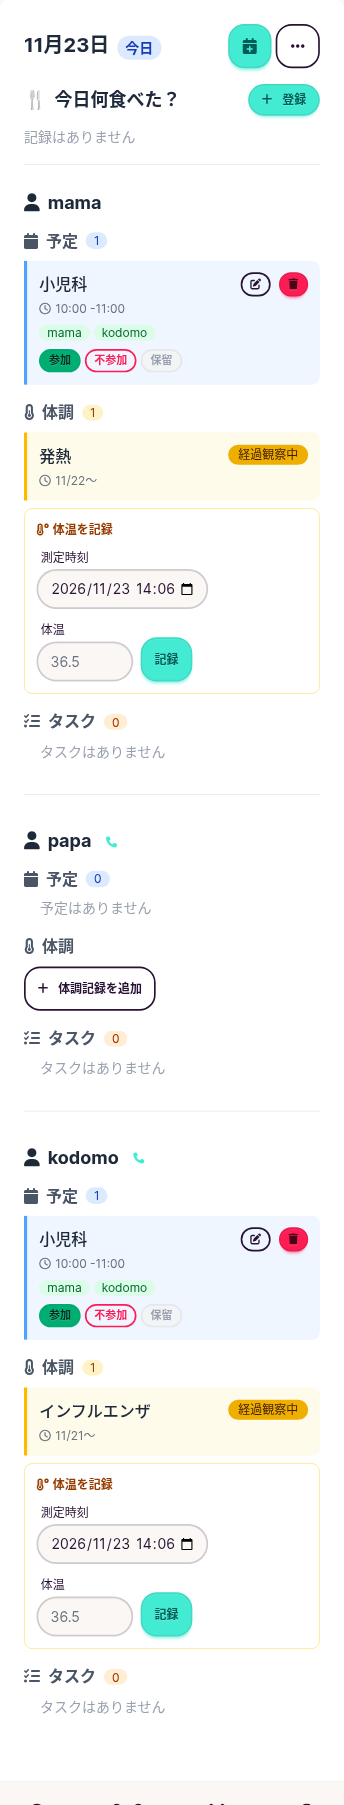
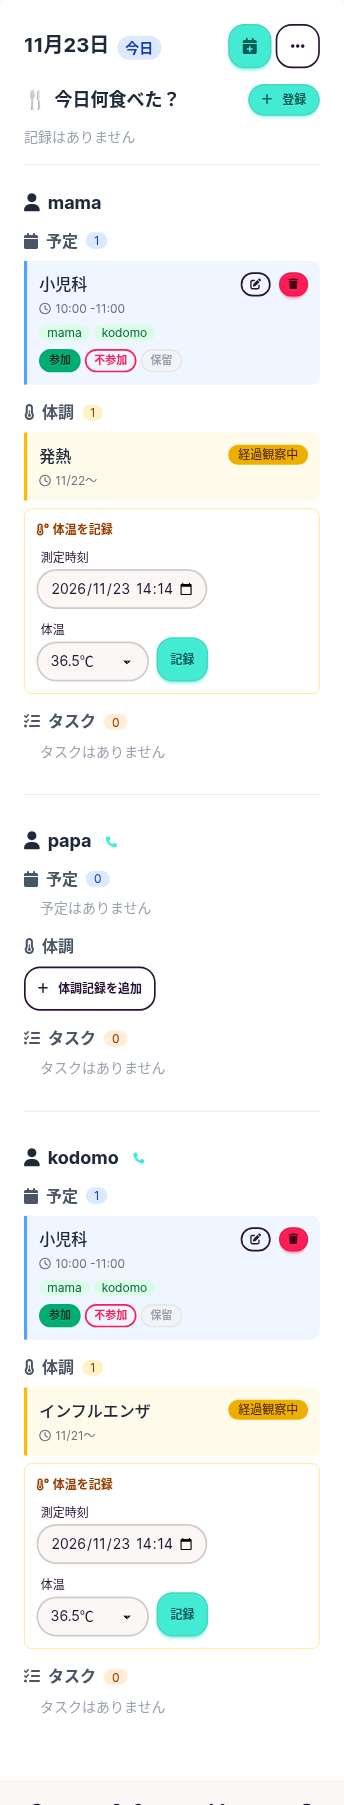
fix: 体温入力を35.0〜41.9℃のピッカーに変更

diff --git a/spec/requests/health_episodes/temperatures_spec.rb b/spec/requests/health_episodes/temperatures_spec.rb
@@ -67,6 +67,33 @@ RSpec.describe 'HealthEpisodeTemperatures', type: :request do
     end
   end
 
+  describe 'temperature pickers' do
+    it 'offers select options for new and existing temperatures' do
+      temperature = create(:health_episode_temperature, health_episode: episode, value: 37.6)
+
+      get health_episode_path(episode)
+
+      page = response.parsed_body
+      new_select = page.at_css('#new_health_episode_temperature select[name="health_episode_temperature[value]"]')
+      edit_select = page.at_css(edit_value_select_selector(episode, temperature))
+
+      expect(new_select.at_css('option[selected]').text).to eq('36.5℃')
+      expect(edit_select.at_css('option[selected]').text).to eq('37.6℃')
+      expect(edit_select.css('option').size).to eq(70)
+    end
+
+    it 'keeps an existing value outside the picker range selectable' do
+      temperature = create(:health_episode_temperature, health_episode: episode, value: 42.3)
+
+      get health_episode_path(episode)
+
+      edit_select = response.parsed_body.at_css(edit_value_select_selector(episode, temperature))
+
+      expect(edit_select.css('option').size).to eq(71)
+      expect(edit_select.at_css('option[selected]').text).to eq('42.3℃')
+    end
+  end
+
   it 'rejects authenticated access for a temperature of another family' do
     other = create(:health_episode)
     temperature = create(:health_episode_temperature, health_episode: other)
@@ -74,5 +101,10 @@ RSpec.describe 'HealthEpisodeTemperatures', type: :request do
     expect do
       delete health_episode_temperature_path(other, temperature)
     end.to raise_error(ActiveRecord::RecordNotFound)
+  end
+
+  def edit_value_select_selector(episode, temperature)
+    "form[action='/health_episodes/#{episode.id}/temperatures/#{temperature.id}'] " \
+      'select[name="health_episode_temperature[value]"]'
   end
 end

diff --git a/app/helpers/health_episodes_helper.rb b/app/helpers/health_episodes_helper.rb
@@ -1,6 +1,21 @@
 module HealthEpisodesHelper
+  TEMPERATURE_SELECT_TENTHS = (350..419)
+  DEFAULT_TEMPERATURE_TENTHS = 365
+
   def temperature_value(value)
     format('%<value>.1f', value: value)
+  end
+
+  def temperature_choices(selected = nil)
+    tenths = TEMPERATURE_SELECT_TENTHS.to_a
+    current = temperature_tenths(selected)
+    tenths = (tenths << current).sort if current && tenths.exclude?(current)
+
+    tenths.map { |value| ["#{temperature_from_tenths(value)}℃", temperature_from_tenths(value)] }
+  end
+
+  def temperature_input_value(value)
+    temperature_from_tenths(temperature_tenths(value) || DEFAULT_TEMPERATURE_TENTHS)
   end
 
   def reminder_time_options
@@ -14,5 +29,17 @@ module HealthEpisodesHelper
     return now if date == Time.zone.today
 
     Time.zone.parse("#{date} #{now.strftime('%H:%M')}")
+  end
+
+  private
+
+  def temperature_tenths(value)
+    return if value.blank?
+
+    (value.to_d * 10).round.to_i
+  end
+
+  def temperature_from_tenths(tenths)
+    "#{tenths / 10}.#{tenths % 10}"
   end
 end

diff --git a/spec/helpers/health/health_episodes_helper_spec.rb b/spec/helpers/health/health_episodes_helper_spec.rb
@@ -1,0 +1,34 @@
+require 'rails_helper'
+
+RSpec.describe HealthEpisodesHelper, type: :helper do
+  describe '#temperature_choices' do
+    it 'covers 35.0 to 41.9 in 0.1 steps with a unit label' do
+      choices = helper.temperature_choices
+
+      expect(choices.size).to eq(70)
+      expect(choices.first).to eq(['35.0℃', '35.0'])
+      expect(choices.last).to eq(['41.9℃', '41.9'])
+    end
+
+    it 'contains the stored value' do
+      expect(helper.temperature_choices(37.6)).to include(['37.6℃', '37.6'])
+    end
+
+    it 'keeps a value outside the range selectable' do
+      choices = helper.temperature_choices(42.3)
+
+      expect(choices.size).to eq(71)
+      expect(choices.last).to eq(['42.3℃', '42.3'])
+    end
+  end
+
+  describe '#temperature_input_value' do
+    it 'defaults to 36.5' do
+      expect(helper.temperature_input_value(nil)).to eq('36.5')
+    end
+
+    it 'formats the stored value' do
+      expect(helper.temperature_input_value(BigDecimal('37.60'))).to eq('37.6')
+    end
+  end
+end

diff --git a/spec/requests/health_episodes/calendar_quick_temperature_spec.rb b/spec/requests/health_episodes/calendar_quick_temperature_spec.rb
@@ -33,6 +33,19 @@ RSpec.describe 'Health episodes on the daily calendar', type: :request do
       expect(response.body).not_to include('quick_temperature_form_')
     end
 
+    it 'offers a temperature picker from 35.0 to 41.9 with a 36.5 default' do
+      episode = create(:health_episode, family: family, user: member, title: '発熱', started_on: today - 1.day)
+
+      get calendar_path(date: today.to_s)
+
+      select = response.parsed_body.at_css("#quick_temperature_#{episode.id}_value")
+      options = select.css('option')
+      expect(options.size).to eq(70)
+      expect(options.first.text).to eq('35.0℃')
+      expect(options.last.text).to eq('41.9℃')
+      expect(select.at_css('option[selected]').text).to eq('36.5℃')
+    end
+
     it 'defaults the quick temperature time to the selected day' do
       episode = create(:health_episode, family: family, user: member, title: '発熱', started_on: today - 2.days)
       selected = today - 1.day

diff --git a/spec/system/health_episodes_spec.rb b/spec/system/health_episodes_spec.rb
@@ -22,7 +22,7 @@ RSpec.describe 'Health episodes', type: :system do
     visit health_episode_path(episode)
 
     within '#new_health_episode_temperature' do
-      fill_in '体温', with: '38.5'
+      select '38.5℃', from: '体温'
     end
     click_button '体温を記録'
     expect(page).to have_content '38.5'
@@ -59,7 +59,7 @@ RSpec.describe 'Health episodes', type: :system do
     visit calendar_path
 
     within "#quick_temperature_form_#{episode.id}" do
-      fill_in '体温', with: '38.5'
+      select '38.5℃', from: '体温'
     end
     click_button '記録'
 

diff --git a/spec/README.md b/spec/README.md
@@ -15,7 +15,7 @@ Specs remain grouped by RSpec type first so Rails type inference continues to wo
 | Daily review | `requests/daily_review/` | - | `services/notifications/daily_review_notification_service_spec.rb` | Today's own tasks and meals, meal form return flow, recipe app link, notification payload |
 | Release notes | `requests/release_notes/` | `models/release_notes/` | - | Signed-out access, page rendering, newest-first order, settings entry point, markdown parsing |
 | Scheduled notifications | - | `models/accounts/user_notification_setting_spec.rb`, `models/notifications/notification_dispatch_spec.rb` | `services/reminders/`, `services/notifications/` | Slot matching, duplicate prevention, grace window, message generation and OneSignal requests |
-| Health episodes | `requests/health_episodes/` | `models/health/` | - | Episode lifecycle, temperature records, medication master, reminder slots, family scoping, weekly and monthly presentation, daily-view quick temperature |
+| Health episodes | `requests/health_episodes/` | `models/health/`, `helpers/health/` | - | Episode lifecycle, temperature records, medication master, reminder slots, family scoping, weekly and monthly presentation, daily-view quick temperature, temperature picker |
 | End-to-end flows (rack_test) | - | - | - | Episode creation, temperature entry and status toggles through the browser-facing forms |
 | Shared presentation | - | `helpers/shared/` | - | URL linkification and escaping |
 
